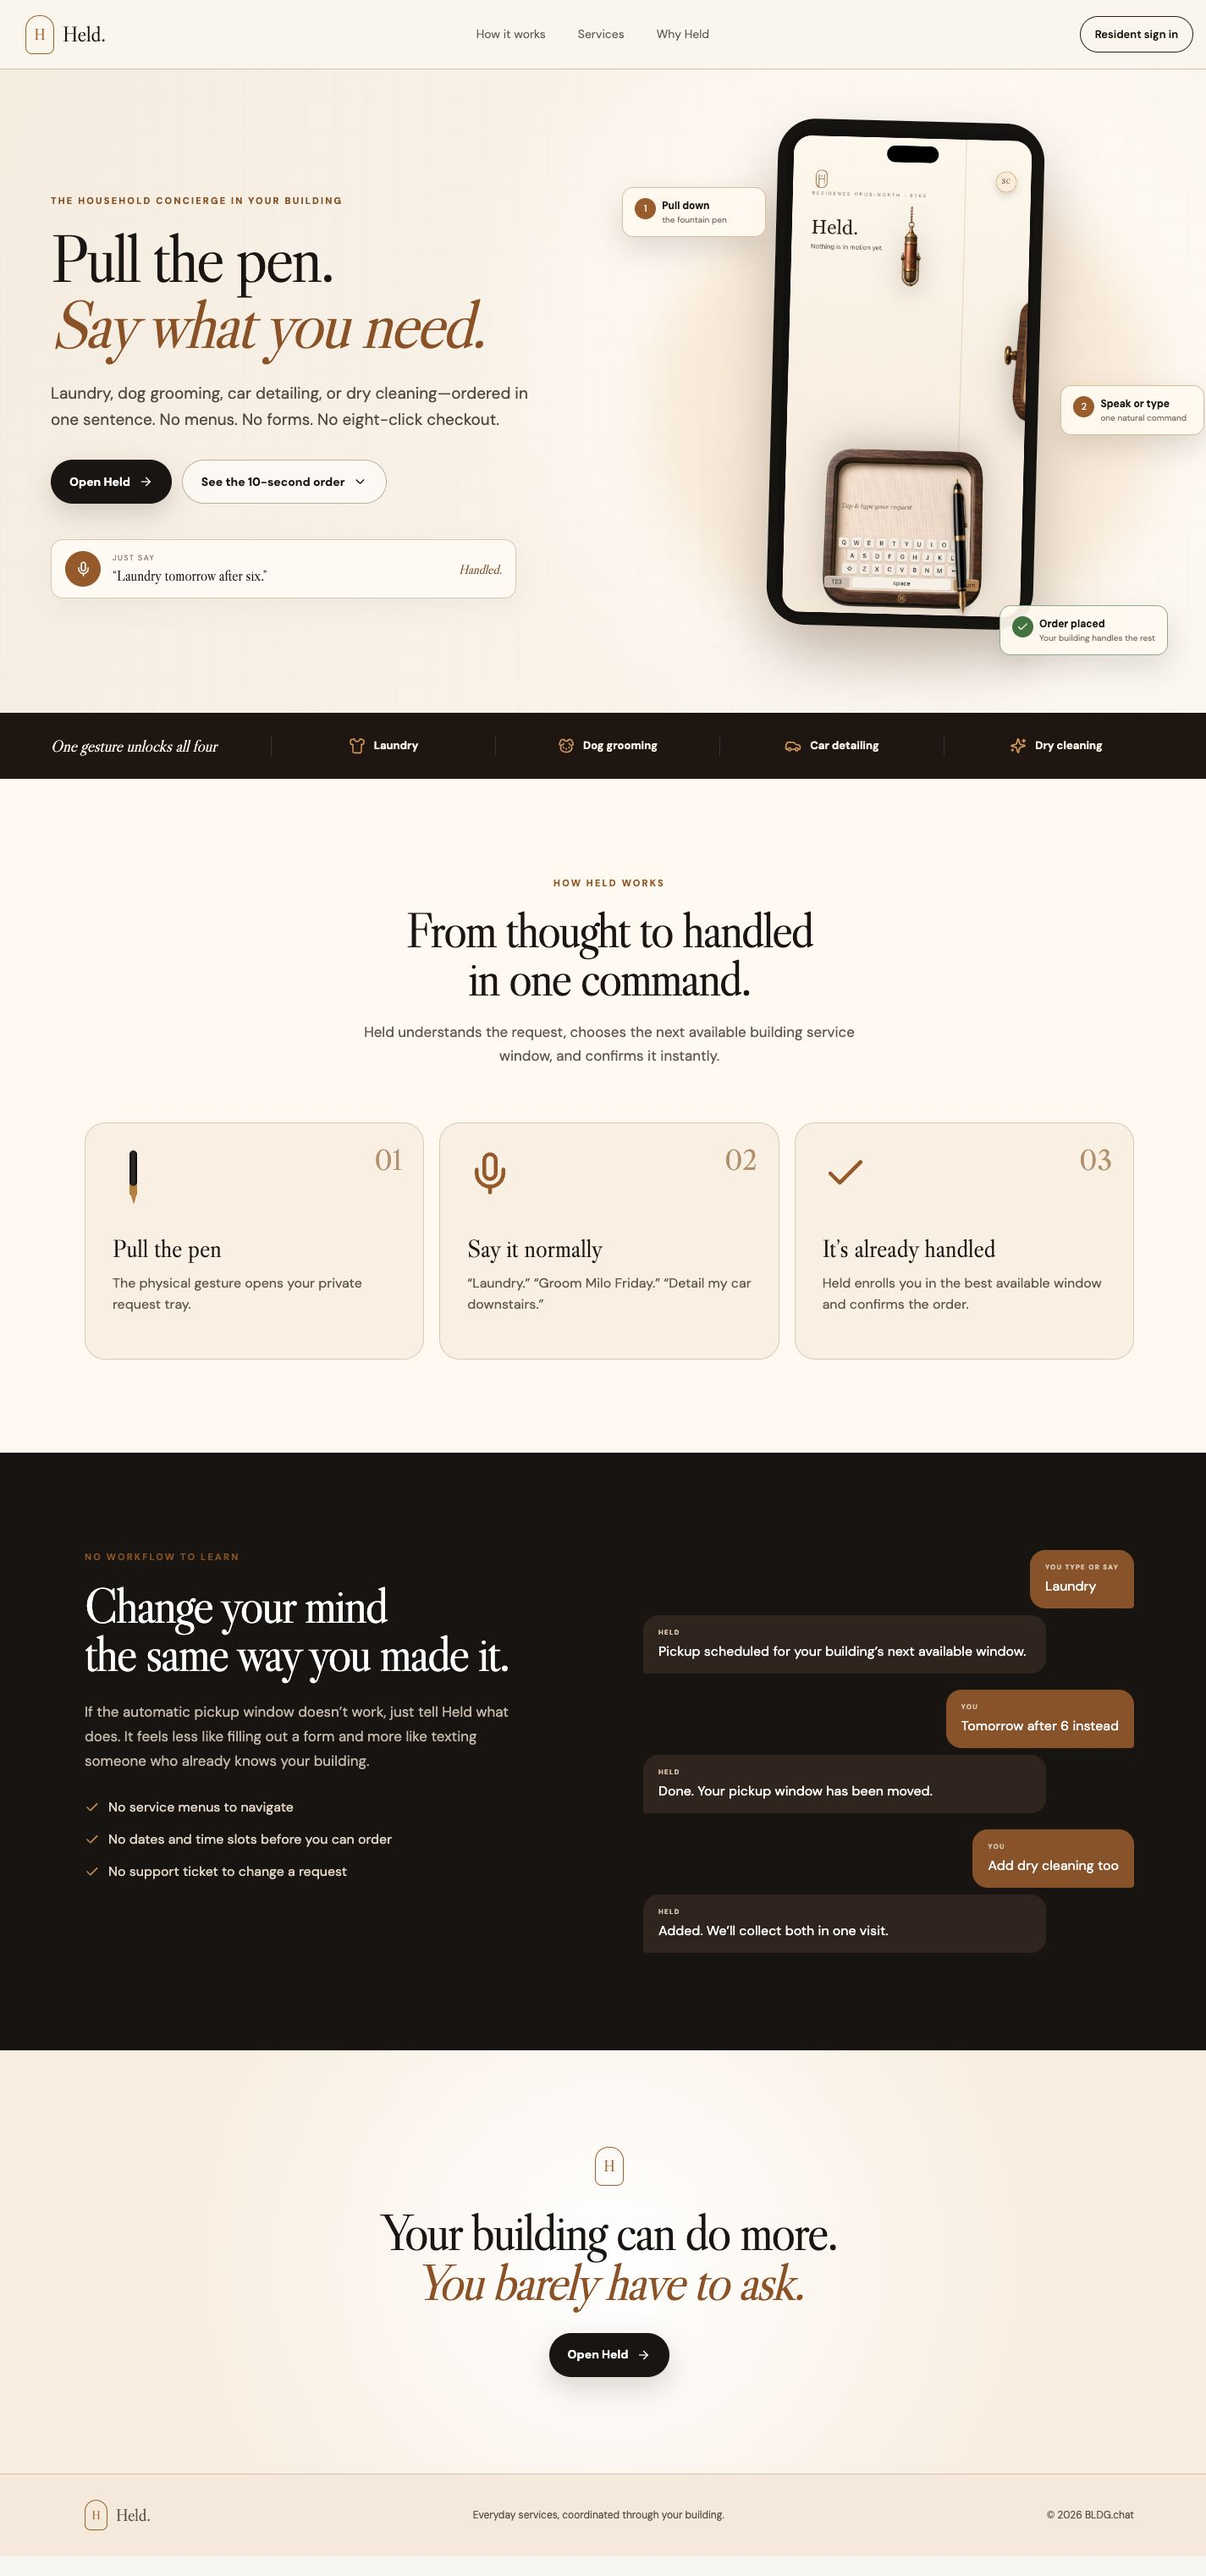
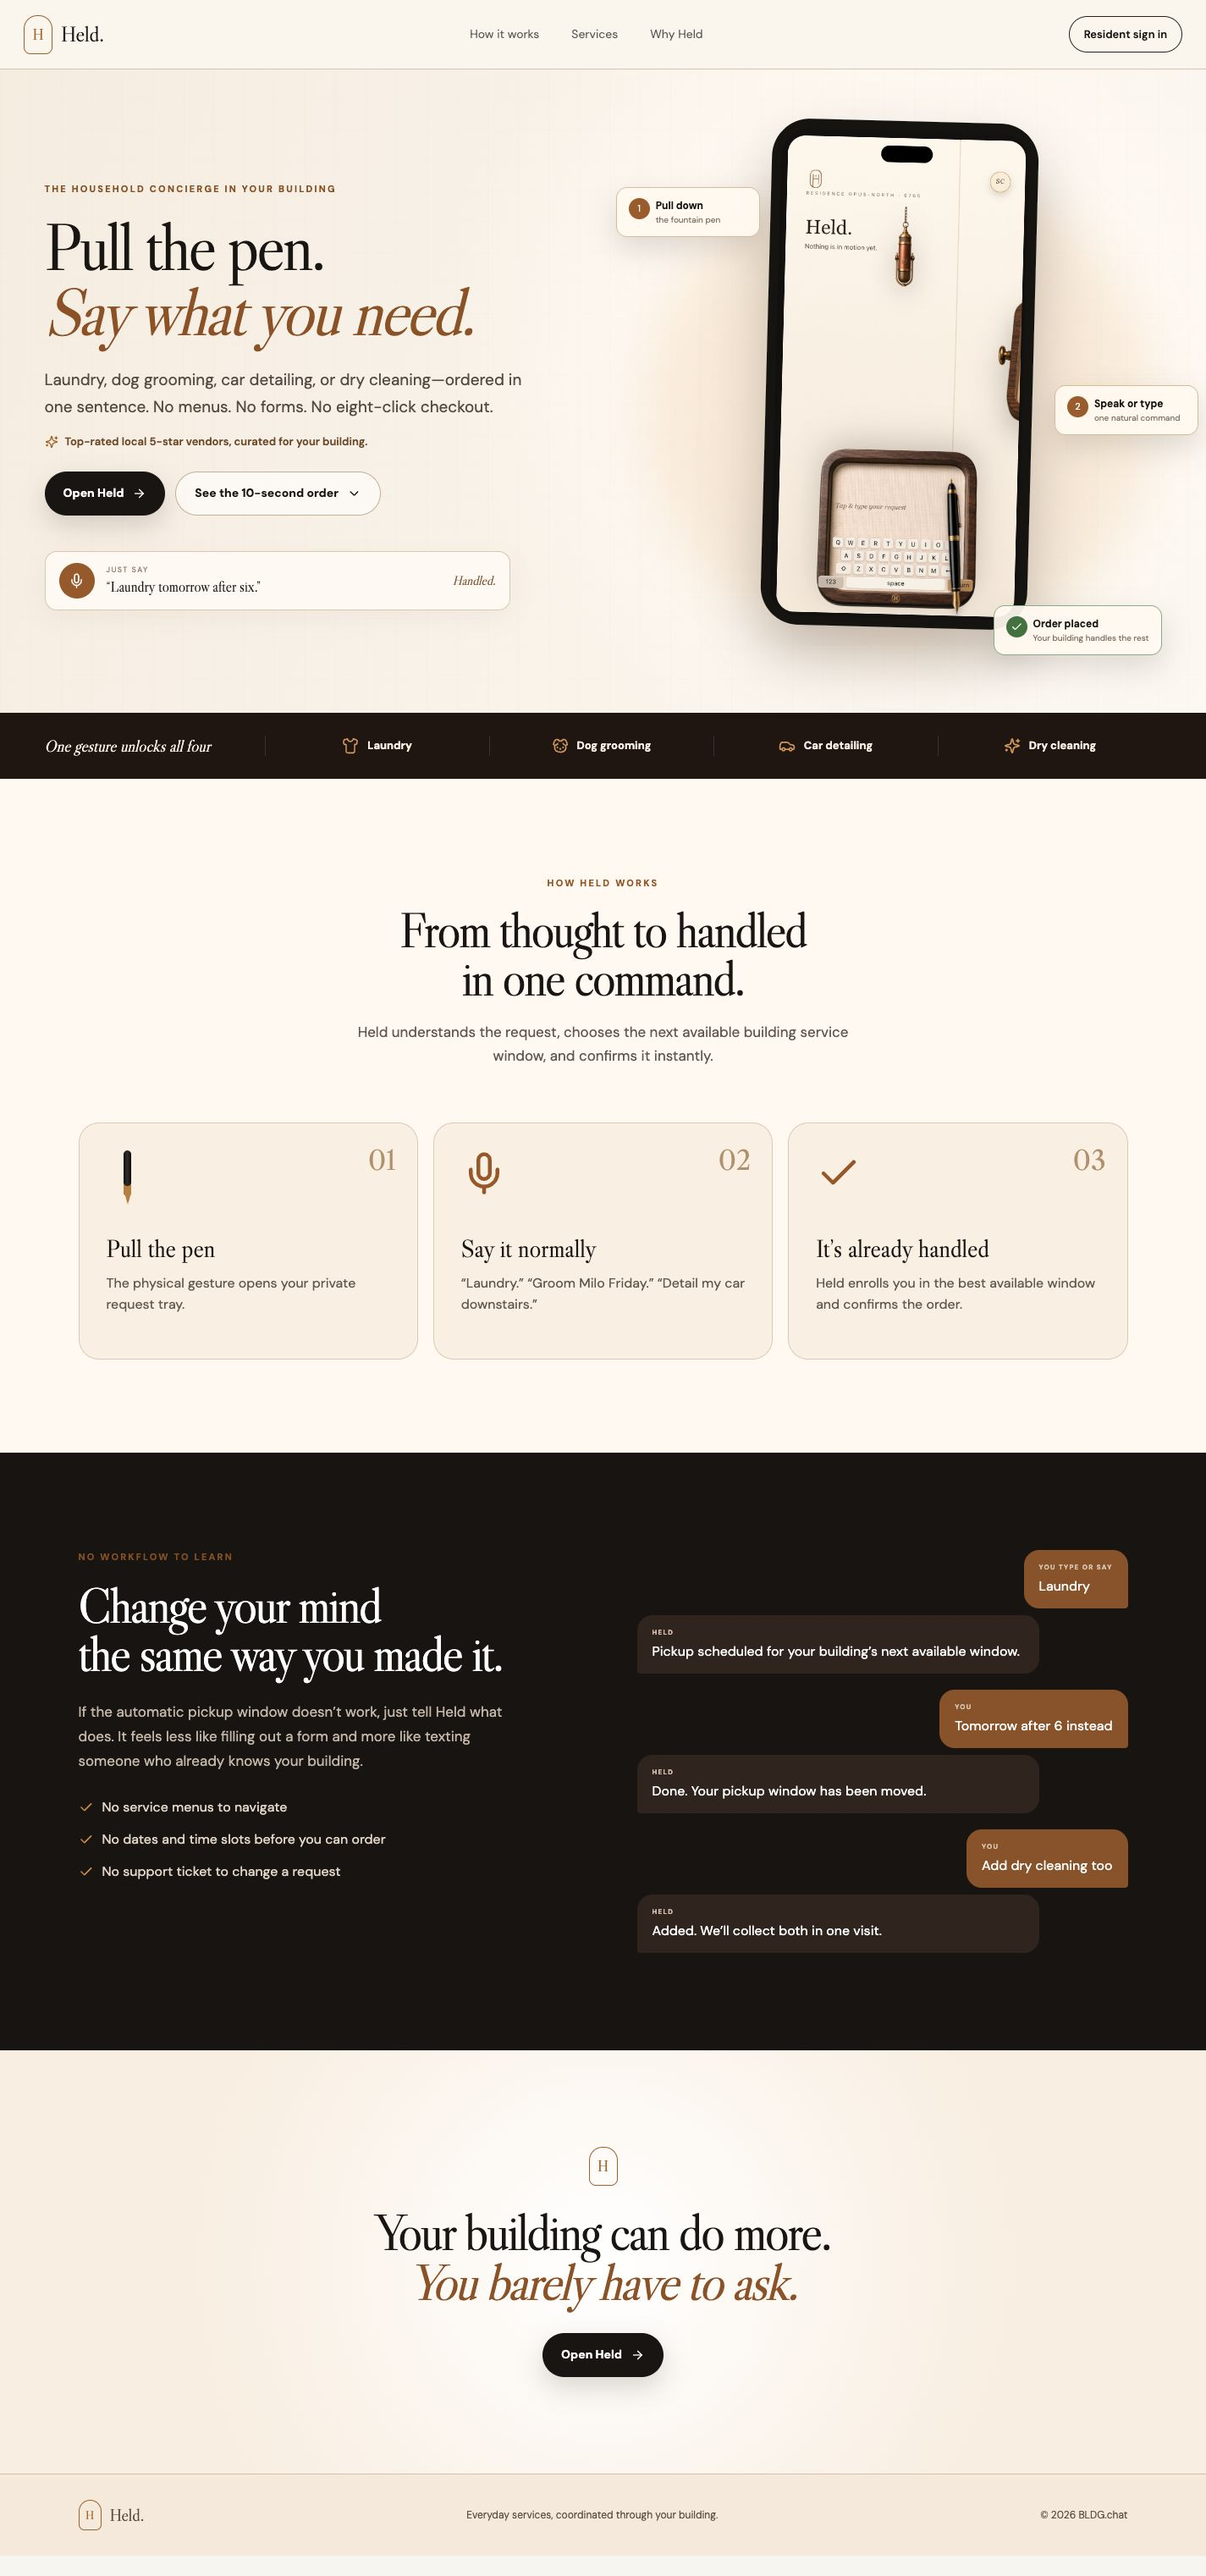
Add curated vendor trust signal to Held hero

diff --git a/client/src/pages/held-landing.css b/client/src/pages/held-landing.css
@@ -2,5 +2,6 @@
 
 .held-site{--ink:#181511;--cream:#f8f3ea;--paper:#fffaf1;--brass:#a66b23;--line:#d9c7aa;--wood:#3a2114;min-width:320px;overflow:hidden;color:var(--ink);background:var(--cream);font-family:"DM Sans",sans-serif}.held-site *{box-sizing:border-box}.held-site a{color:inherit;text-decoration:none}.held-site :where(h1,h2,h3,p){margin:0}.held-nav{position:relative;z-index:10;display:flex;height:82px;align-items:center;justify-content:space-between;padding:0 max(28px,calc((100vw - 1380px)/2));border-bottom:1px solid #d8cdbc;background:#fbf7f0e8;backdrop-filter:blur(16px)}.held-brand{display:flex;align-items:center;gap:10px}.held-brand strong{font:400 25px/1 "Libre Caslon Display",serif}.held-mark{display:grid;width:34px;height:46px;place-items:center;border:1px solid var(--brass);border-radius:16px 16px 8px 8px;color:var(--brass);font:400 18px "Libre Caslon Display",serif}.held-nav nav{display:flex;gap:38px;font-size:14px}.held-nav nav a{opacity:.7}.held-nav nav a:hover{opacity:1}.held-login{padding:11px 17px;border:1px solid #2c251d;border-radius:999px;font-size:13px;font-weight:600}.held-hero{position:relative;display:grid;min-height:760px;grid-template-columns:minmax(380px,1fr) minmax(500px,620px);align-items:center;gap:60px;padding:58px max(38px,calc((100vw - 1320px)/2)) 46px;background:radial-gradient(circle at 73% 42%,#fffaf4 0 19%,transparent 45%),linear-gradient(110deg,#f6efe4,#fcf9f3)}.held-hero:before{content:"";position:absolute;inset:0;opacity:.3;pointer-events:none;background-image:linear-gradient(#6f4e2d0a 1px,transparent 1px),linear-gradient(90deg,#6f4e2d0a 1px,transparent 1px);background-size:36px 36px}.held-hero-copy{position:relative;z-index:2}.held-eyebrow{display:block;margin-bottom:22px;color:#8c5a20;font-size:11px;font-weight:700;letter-spacing:.2em}.held-hero h1,.held-how h2,.held-conversation h2,.held-final h2{font:400 clamp(52px,5.5vw,82px)/.98 "Libre Caslon Display",serif;letter-spacing:-.035em}.held-hero h1 em,.held-final h2 em{color:#915b25;font-style:italic}.held-lede{max-width:590px;margin-top:26px;color:#5e554a;font-size:19px;line-height:1.65}.held-actions{display:flex;flex-wrap:wrap;gap:12px;margin-top:32px}.held-primary,.held-secondary{display:inline-flex;min-height:52px;align-items:center;justify-content:center;gap:10px;padding:0 22px;border-radius:999px;font-size:14px;font-weight:700}.held-primary{color:#fff!important;background:#181511;box-shadow:0 12px 30px #24160f2a}.held-primary svg,.held-secondary svg{width:17px}.held-secondary{border:1px solid #c8b99f;background:#fff9}.held-command-strip{display:flex;max-width:550px;align-items:center;gap:14px;margin-top:42px;padding:13px 16px;border:1px solid #ddceb8;border-radius:14px;background:#fffaf4;box-shadow:0 10px 30px #4b30120c}.held-command-strip>span{display:grid;width:42px;height:42px;place-items:center;border-radius:50%;color:#fff;background:#9b6429}.held-command-strip svg{width:19px}.held-command-strip div{display:flex;flex:1;flex-direction:column;gap:3px}.held-command-strip small{color:#998874;font-size:9px;letter-spacing:.16em}.held-command-strip strong{font:400 17px "Libre Caslon Display",serif}.held-command-strip i{color:#87633b;font:italic 15px "Libre Caslon Display",serif}.held-product-stage{position:relative;height:650px}.held-halo{position:absolute;inset:8% 2% 3%;border-radius:50%;background:#e0b87533;filter:blur(30px)}.held-phone{position:absolute;left:50%;top:0;width:315px;height:598px;overflow:hidden;transform:translateX(-50%) rotate(1.5deg);border:11px solid #15130f;border-radius:45px;background:#15130f;box-shadow:0 35px 70px #2e201c42}.held-phone img{width:100%;height:100%;object-fit:cover;border-radius:34px}.held-pull-note,.held-speak-note,.held-done-note{position:absolute;z-index:3;display:grid;min-width:170px;grid-template-columns:32px 1fr;padding:12px 14px;border:1px solid #d7c4a5;border-radius:13px;background:#fffaf2ed;box-shadow:0 14px 34px #241a1124}.held-pull-note span,.held-speak-note span,.held-done-note>svg{grid-row:1/3;display:grid;width:25px;height:25px;place-items:center;margin-right:8px;border-radius:50%;color:#fff;background:#9f672b;font-size:11px}.held-pull-note b,.held-speak-note b,.held-done-note b{font-size:12px}.held-pull-note small,.held-speak-note small,.held-done-note small{color:#877766;font-size:10px}.held-pull-note{left:-4%;top:12%}.held-speak-note{right:-7%;top:48%}.held-done-note{right:0;bottom:3%;border-color:#9ab38f}.held-done-note>svg{padding:5px;background:#527c46}.held-service-ribbon{display:grid;grid-template-columns:260px 1fr;align-items:center;padding:27px max(38px,calc((100vw - 1320px)/2));color:#f9f1e5;background:#21170f}.held-service-ribbon>p{font:italic 19px "Libre Caslon Display",serif}.held-service-ribbon>div{display:grid;grid-template-columns:repeat(4,1fr)}.held-service-ribbon span{display:flex;align-items:center;justify-content:center;gap:10px;border-left:1px solid #ffffff1e;font-size:13px}.held-service-ribbon svg{width:20px;color:#d3a15f}.held-how{padding:110px max(38px,calc((100vw - 1240px)/2));background:#fffaf3}.held-how>header{max-width:760px;margin:0 auto 65px;text-align:center}.held-how>header>span{color:#996122;font-size:11px;font-weight:700;letter-spacing:.2em}.held-how h2{margin-top:17px;font-size:58px}.held-how header p{max-width:610px;margin:20px auto 0;color:#6d6257;font-size:17px;line-height:1.65}.held-steps{display:grid;grid-template-columns:repeat(3,1fr);gap:18px}.held-steps article{position:relative;min-height:280px;padding:32px;border:1px solid #ded0bc;border-radius:24px;background:#f9f1e5}.held-steps article>b{position:absolute;right:25px;top:22px;color:#b79b76;font:400 34px "Libre Caslon Display",serif}.held-steps article>svg,.held-mini-pen{width:54px;height:54px;margin-bottom:44px;color:#9c6327}.held-mini-pen{position:relative;width:9px;margin-left:20px;border-radius:7px;background:linear-gradient(90deg,#111,#36322d,#090807);box-shadow:inset 0 -12px #ba8a40}.held-mini-pen:after{content:"";position:absolute;left:1px;bottom:-14px;border:4px solid transparent;border-top:14px solid #b98a42}.held-steps h3{font:400 29px "Libre Caslon Display",serif}.held-steps p{margin-top:10px;color:#6d6257;line-height:1.6}.held-conversation{display:grid;grid-template-columns:1fr 1fr;gap:80px;padding:115px max(38px,calc((100vw - 1240px)/2));color:#fff;background:#17130f}.held-conversation h2{font-size:58px}.held-conversation>div:first-child>p{max-width:540px;margin-top:25px;color:#c9bfb2;font-size:17px;line-height:1.7}.held-conversation ul{display:grid;gap:14px;padding:0;margin:28px 0 0;list-style:none}.held-conversation li{display:flex;align-items:center;gap:10px;color:#e4dacd}.held-conversation li svg{width:18px;color:#c9944e}.held-chat-demo{display:grid;align-content:center;gap:19px}.held-chat-pair{display:grid;gap:8px}.held-chat-pair p{max-width:82%;padding:14px 18px;border-radius:18px;background:#342820}.held-chat-pair p:first-child{justify-self:end;border-bottom-right-radius:4px;background:#8f5d29}.held-chat-pair p:last-child{border-bottom-left-radius:4px}.held-chat-pair small{display:block;margin-bottom:5px;color:#ddcdb7;font-size:8px;font-weight:700;letter-spacing:.16em}.held-final{display:flex;min-height:500px;align-items:center;justify-content:center;flex-direction:column;padding:80px 24px;text-align:center;background:radial-gradient(circle,#fff 0,#f8f0e4 65%)}.held-final .held-mark{margin-bottom:26px}.held-final h2{font-size:60px}.held-final .held-primary{margin-top:30px}.held-site>footer{display:flex;align-items:center;justify-content:space-between;padding:30px max(32px,calc((100vw - 1240px)/2));border-top:1px solid #d8c8b1;color:#655a4e;background:#f5ecdf;font-size:12px}.held-site>footer .held-mark{width:27px;height:36px;font-size:14px}.held-site>footer .held-brand strong{font-size:20px}
 
-@media(max-width:900px){.held-nav{height:70px;padding:0 20px}.held-nav nav{display:none}.held-hero{grid-template-columns:1fr;padding:55px 22px 20px}.held-hero-copy{text-align:center}.held-lede,.held-command-strip{margin-left:auto;margin-right:auto}.held-actions{justify-content:center}.held-product-stage{height:630px;margin-top:25px}.held-pull-note{left:0}.held-speak-note{right:0}.held-service-ribbon{grid-template-columns:1fr;gap:20px;text-align:center}.held-service-ribbon>div{grid-template-columns:repeat(2,1fr);gap:20px}.held-service-ribbon span{border:0}.held-steps,.held-conversation{grid-template-columns:1fr}.held-conversation{gap:55px}.held-how h2,.held-conversation h2,.held-final h2{font-size:44px}.held-site>footer{align-items:flex-start;flex-direction:column;gap:16px}}
+.held-vendor-trust{display:flex;align-items:center;gap:8px;margin-top:16px;color:#76532c;font-size:13px;font-weight:600}.held-vendor-trust svg{width:16px;height:16px;color:#a66b23}.held-vendor-trust+.held-actions{margin-top:25px}
+@media(max-width:900px){.held-nav{height:70px;padding:0 20px}.held-nav nav{display:none}.held-hero{grid-template-columns:1fr;padding:55px 22px 20px}.held-hero-copy{text-align:center}.held-lede,.held-command-strip{margin-left:auto;margin-right:auto}.held-vendor-trust{justify-content:center}.held-actions{justify-content:center}.held-product-stage{height:630px;margin-top:25px}.held-pull-note{left:0}.held-speak-note{right:0}.held-service-ribbon{grid-template-columns:1fr;gap:20px;text-align:center}.held-service-ribbon>div{grid-template-columns:repeat(2,1fr);gap:20px}.held-service-ribbon span{border:0}.held-steps,.held-conversation{grid-template-columns:1fr}.held-conversation{gap:55px}.held-how h2,.held-conversation h2,.held-final h2{font-size:44px}.held-site>footer{align-items:flex-start;flex-direction:column;gap:16px}}
 @media(max-width:520px){.held-login{padding:9px 12px;font-size:11px}.held-hero h1{font-size:48px}.held-lede{font-size:16px}.held-secondary{display:none}.held-command-strip i{display:none}.held-product-stage{height:590px}.held-phone{width:285px;height:540px}.held-pull-note,.held-speak-note,.held-done-note{min-width:145px}.held-pull-note{top:7%;left:-16px}.held-speak-note{top:46%;right:-16px}.held-done-note{right:-5px}.held-service-ribbon>div{grid-template-columns:1fr 1fr}.held-how,.held-conversation{padding:80px 22px}.held-steps article{min-height:245px}.held-final h2{font-size:40px}}

diff --git a/client/src/pages/HeldLanding.tsx b/client/src/pages/HeldLanding.tsx
@@ -39,6 +39,7 @@ export default function HeldLanding() {
               Laundry, dog grooming, car detailing, or dry cleaning—ordered in one sentence.
               No menus. No forms. No eight-click checkout.
             </p>
+            <p className="held-vendor-trust"><Sparkles /> Top-rated local 5-star vendors, curated for your building.</p>
             <div className="held-actions">
               <a className="held-primary" href="/account">Open Held <ArrowRight /></a>
               <a className="held-secondary" href="#how">See the 10-second order <ChevronDown /></a>

diff --git a/client/src/pages/HeldLanding.test.ts b/client/src/pages/HeldLanding.test.ts
@@ -10,6 +10,7 @@ describe("Held resident landing page", () => {
     expect(app).toContain(": HeldLandingRoute");
     expect(page).toContain("Pull the pen");
     expect(page).toContain("Say what you need");
+    expect(page).toContain("Top-rated local 5-star vendors, curated for your building");
   });
 
   it("presents every resident service and natural-language rescheduling", () => {
